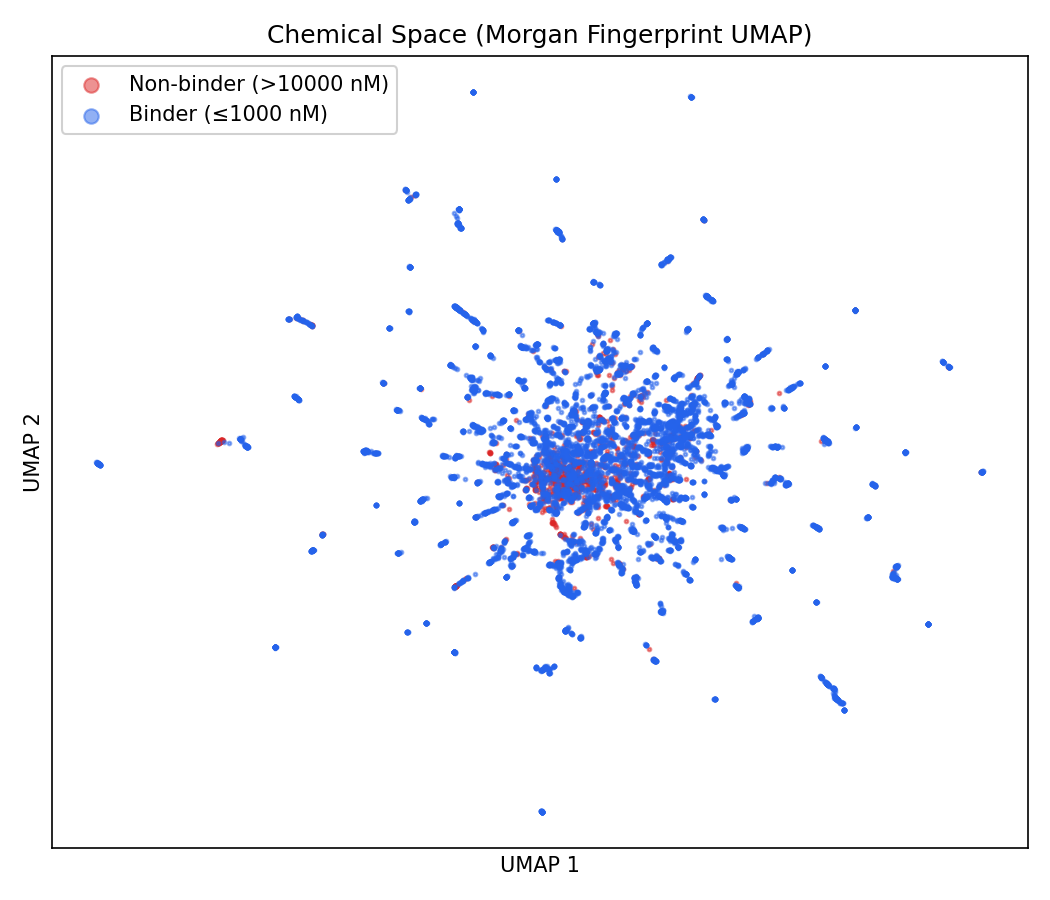
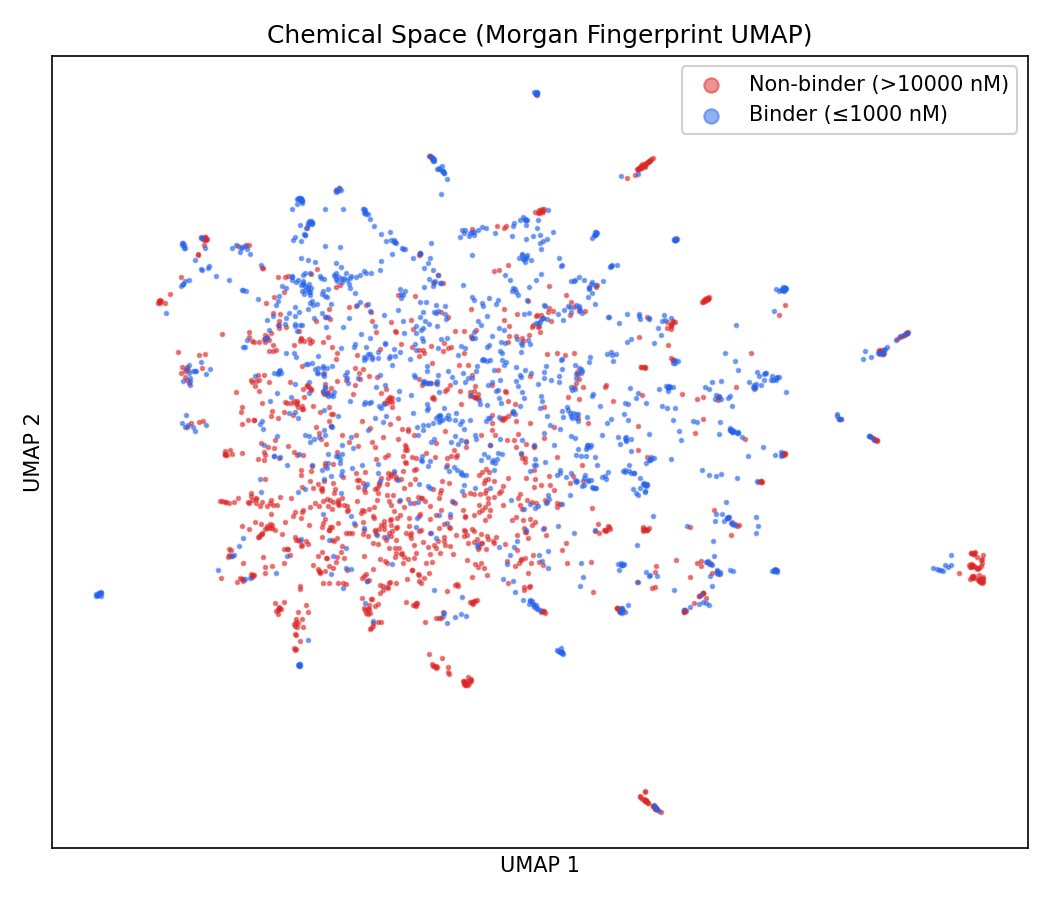
balance fig1 subsample to 1:1 for visibility

diff --git a/README.md b/README.md
@@ -112,7 +112,7 @@ AUROC values in this table depend on the negative sampling strategy. Affinity-th
 | | |
 |:---:|:---:|
 | ![Chemical space UMAP](figures/fig1_chemical_space_umap.png) | ![Protein embedding UMAP](figures/fig2_protein_umap.png) |
-| **Fig 1.** Chemical space UMAP over Morgan fingerprints of 10k subsampled drugs (cosine metric). Non-binders (red) are sparse at 4.43:1 class ratio and mostly invisible at this scale. The tight clustering reflects the narrow chemical diversity of BindingDB's kinase inhibitor collection: measured compounds are concentrated in ATP-competitive scaffold classes that occupy the same region of chemical space. | **Fig 2.** ESM2 embedding UMAP over all 487 kinase targets with valid sequences, colored by subfamily. ESM2 partially separates kinase families despite being trained on general protein sequences. |
+| **Fig 1.** Chemical space UMAP over Morgan fingerprints, balanced 1:1 binder:non-binder for visualization (~3,680 points; binders downsampled to match the non-binder count from a 10k random subsample; cosine metric). Binders (blue) and non-binders (red) overlap throughout chemical space with no separation. This is consistent with affinity-threshold negative sampling: measured non-binders are drawn from the same ATP-competitive scaffold classes as binders and differ in binding affinity, not gross structural class. | **Fig 2.** ESM2 embedding UMAP over all 487 kinase targets with valid sequences, colored by subfamily. ESM2 partially separates kinase families despite being trained on general protein sequences. |
 
 ![ROC and PR curves](figures/fig3_roc_pr_curves.png)
 